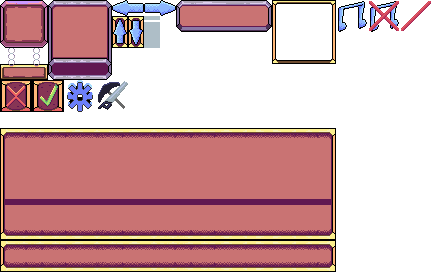
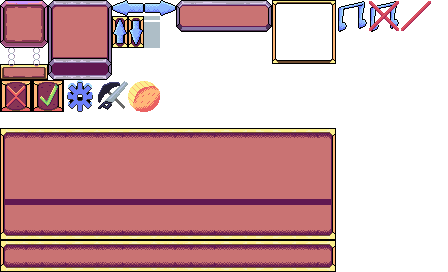
add coin sprite

Changed region(s): [[0.2812, 0.2941, 0.375, 0.4118]]

diff --git a/UIEngine/Classes/Storage/InventoryDisplay.cs b/UIEngine/Classes/Storage/InventoryDisplay.cs
@@ -25,13 +25,15 @@ namespace UIEngine.Classes.Storage
         protected static readonly int _buttonWidth = 64;
         protected int Rows;
         protected int Columns;
+
+        protected WalletDisplay WalletDisplay {get;set;}
         protected StorageContainer StorageContainer { get; set; }
 
         protected List<InventorySlotDisplay> InventorySlots { get; set; }
 
         internal InventorySlotDisplay SelectedSlot { get; set; }
 
-        internal int Width { get { return DrawEndIndex * _buttonWidth; }}
+        internal new int Width { get { return DrawEndIndex * _buttonWidth; }}
 
 
         public int Capacity { get { return StorageContainer.Capacity; }  }
@@ -76,6 +78,10 @@ namespace UIEngine.Classes.Storage
                     new Vector2(Position.X + i * _buttonWidth,
                     Position.Y + i % Rows * _buttonWidth), LayerDepth));
             }
+            Vector2 walletDisplayPosition = new Vector2(0, 0);
+            if(InventorySlots.Count > 0)
+                walletDisplayPosition = InventorySlots[InventorySlots.Count - 1].Position;
+            WalletDisplay = new WalletDisplay(this, graphics, content, walletDisplayPosition, GetLayeringDepth(UILayeringDepths.Low));
             TotalBounds = new Rectangle((int)Position.X, (int)Position.Y, Rows * _buttonWidth, Columns * _buttonWidth);
         }
         public override void Update(GameTime gameTime)
@@ -90,7 +96,7 @@ namespace UIEngine.Classes.Storage
                 if (slot.Hovered)
                     Hovered = true;
             }
-
+            WalletDisplay.Update(gameTime);
 
         }
         public override void Draw(SpriteBatch spriteBatch)
@@ -99,6 +105,7 @@ namespace UIEngine.Classes.Storage
             {
                 InventorySlots[i].Draw(spriteBatch);
             }
+            WalletDisplay.Draw(spriteBatch);
         }
 
     }

diff --git a/UIEngine/Classes/Storage/WalletDisplay.cs b/UIEngine/Classes/Storage/WalletDisplay.cs
@@ -1,0 +1,43 @@
+using Microsoft.Xna.Framework;
+using Microsoft.Xna.Framework.Content;
+using Microsoft.Xna.Framework.Graphics;
+using SpriteEngine.Classes;
+using System;
+using System.Collections.Generic;
+using System.Linq;
+using System.Text;
+using System.Threading.Tasks;
+
+namespace UIEngine.Classes.Storage
+{
+    internal class WalletDisplay : InterfaceSection
+    {
+        private static Rectangle _coinSourceRectangle = new Rectangle(128, 80, 32, 32);
+        private static Sprite _coinSprite;
+        public WalletDisplay(InterfaceSection interfaceSection, GraphicsDevice graphicsDevice,
+            ContentManager content, Vector2? position, float layerDepth) :
+            base(interfaceSection, graphicsDevice, content, position, layerDepth)
+        {
+            MovePosition(position.Value);
+        }
+        public override void MovePosition(Vector2 newPos)
+        {
+            base.MovePosition(newPos);
+            _coinSprite = SpriteFactory.CreateUISprite(newPos, _coinSourceRectangle, UI.ButtonTexture, GetLayeringDepth(UILayeringDepths.Medium),
+                scale: new Vector2(2f,2f));
+        }
+
+        public override void Update(GameTime gameTime)
+        {
+            base.Update(gameTime);
+            _coinSprite.Update(gameTime, Position);
+        }
+        public override void Draw(SpriteBatch spriteBatch)
+        {
+            base.Draw(spriteBatch);
+            _coinSprite.Draw(spriteBatch);
+        }
+
+       
+    }
+}

diff --git a/UIEngine/Classes/ToolBar.cs b/UIEngine/Classes/ToolBar.cs
@@ -39,15 +39,17 @@ namespace UIEngine.Classes
 
             //X and y actually don't matter, multiply by 10 because toolbar is 10 slots wide, at 64 pixels per slot
             Rectangle totalToolBarRectangle = new Rectangle(0, 0, _toolBarSlotWidth * _totalToolbarSlots, _toolBarSlotWidth);
+            _stackPanel = new StackPanel(this, graphics, content, Position, GetLayeringDepth(UILayeringDepths.Low));
 
-            _playerInventoryDisplay = new PlayerInventoryDisplay(this, graphics, content,
+            _playerInventoryDisplay = new PlayerInventoryDisplay(_stackPanel, graphics, content,
                 RectangleHelper.PlaceBottomCenterScreen(totalToolBarRectangle) + new Vector2(0, -32), LayerDepth);
             _playerInventoryDisplay.LoadNewEntityInventory(playerStorageContainer);
             _playerInventoryDisplay.LoadContent();
             TotalBounds = new Rectangle((int)_playerInventoryDisplay.Position.X, (int)_playerInventoryDisplay.Position.Y, totalToolBarRectangle.Width, totalToolBarRectangle.Height);
 
-            _stackPanel = new StackPanel(this, graphics, content, Position, GetLayeringDepth(UILayeringDepths.Low));
             StackRow stackRow = new StackRow(_totalWidth);
+            stackRow.AddItem(_playerInventoryDisplay, StackOrientation.Left);
+            _stackPanel.Add(stackRow);
         }
 
         public override void Update(GameTime gameTime)

diff --git a/UIEngine/Classes/Storage/PlayerInventoryDisplay.cs b/UIEngine/Classes/Storage/PlayerInventoryDisplay.cs
@@ -57,6 +57,9 @@ namespace UIEngine.Classes.Storage
                 new Vector2(Position.X + Width, Position.Y),LayerDepth,
                 _openBigInventoryUpArrowSourceRectangle, new Action(ToggleOpen), scale:2f);
             _openBigInventoryButton.LoadContent();
+            WalletDisplay = new WalletDisplay(this, graphics, content, new Vector2(_openBigInventoryButton.Position.X + _openBigInventoryButton.Width,
+                _openBigInventoryButton.Position.Y), GetLayeringDepth(UILayeringDepths.Medium));
+
         }
         public override void Update(GameTime gameTime)
         {
